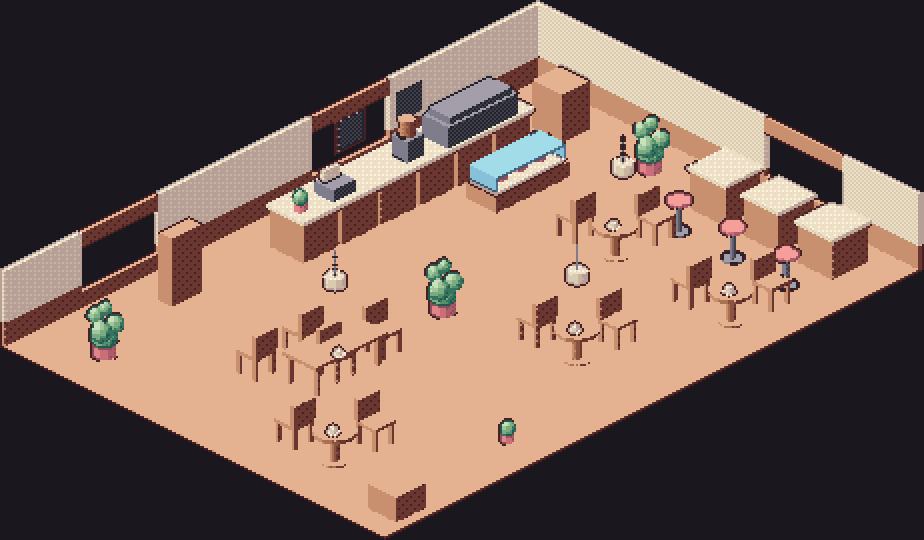
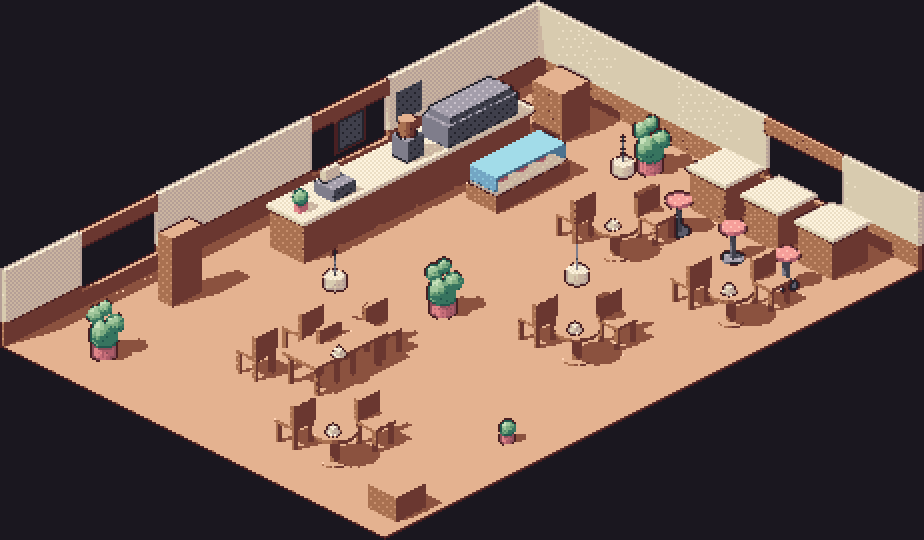
Add cast shadows and a measured art critique against genre convention
Researched the established craft rules for isometric pixel art and measured
the render against them rather than against taste.

What passes. Projection is exactly 2:1 (0.500000000000), which every source
names as the foundation -- 26.57 degree 2-step lines, not true 30 degree
isometry which produces jaggy pixel rhythm. Three-face value separation also
passes: top face lands on ramp step 5.08, left 3.74, right 0.60, so adjacent
faces sit 1.33 and 3.14 steps apart and box forms read as solid volumes. Both
hold structurally rather than by an artist remembering them per asset.

What failed, and the largest fix in this commit. There were no cast shadows at
all, and every reference names grid-aligned cast shadows as the primary device
grounding an object to its floor. Adds an orthographic shadow map rendered from
the key light, plus a weak opposing fill.

That also repaired a measured defect: with only axis-aligned faces the lambert
term was bimodal, so a 7-step ramp collapsed to about 3 used steps with the
mid-tones holding 0.4% of pixels. After shadows and fill, all 7 steps are in
use, mid-tones hold 15%, and peak step share drops from 72% to 63%.

Still bad, and documented rather than hidden. The brightest ramp step gets
0.0% because nothing in the scene is brighter than a flat top face under a
single key, and lamp_glow is never used because no material maps to it. The
genre comparables all solve this with staged light pools -- window shafts,
[…]

diff --git a/tools/mesh.py b/tools/mesh.py
@@ -134,10 +134,74 @@ def save_obj(mesh: Mesh, path: Path | str) -> None:
 
 # --- rasterizer --------------------------------------------------------------
 
+class ShadowMap:
+    """Orthographic depth buffer rendered from the key light.
+
+    Cast shadows are not decoration here. Every isometric reference names them as
+    the primary device that grounds an object to the floor, and without them
+    props read as floating. They also fix a measured defect: with only
+    axis-aligned faces the lambert term is bimodal, so a 7-step ramp collapses to
+    about 3 used steps. Shadow gives the mid and dark steps something to describe.
+    """
+
+    def __init__(self, mesh: Mesh, light: Vec, res: int = 512):
+        self.dir = light
+        up = (0.0, 0.0, 1.0) if abs(light[2]) < 0.99 else (0.0, 1.0, 0.0)
+        self.right = norm(cross(up, light))
+        self.up = norm(cross(light, self.right))
+        us = [dot(v, self.right) for v in mesh.verts]
+        vs = [dot(v, self.up) for v in mesh.verts]
+        self.u0, self.v0 = min(us), min(vs)
+        pad = 1e-3
+        self.su = (max(us) - self.u0) + pad
+        self.sv = (max(vs) - self.v0) + pad
+        self.res = res
+        self.depth = [-1e30] * (res * res)
+
+        for tri, _, _ in mesh.faces:
+            a, b, c = (mesh.verts[i] for i in tri)
+            pa, pb, pc = (self._project(p) for p in (a, b, c))
+            area = ((pb[0] - pa[0]) * (pc[1] - pa[1]) -
+                    (pb[1] - pa[1]) * (pc[0] - pa[0]))
+            if abs(area) < 1e-12:
+                continue
+            x0 = max(0, int(min(pa[0], pb[0], pc[0])))
+            x1 = min(res - 1, int(max(pa[0], pb[0], pc[0])) + 1)
+            y0 = max(0, int(min(pa[1], pb[1], pc[1])))
+            y1 = min(res - 1, int(max(pa[1], pb[1], pc[1])) + 1)
+            for py in range(y0, y1 + 1):
+                fy = py + 0.5
+                for px in range(x0, x1 + 1):
+                    fx = px + 0.5
+                    w0 = ((pb[0]-pa[0])*(fy-pa[1]) - (pb[1]-pa[1])*(fx-pa[0])) / area
+                    w1 = ((pc[0]-pb[0])*(fy-pb[1]) - (pc[1]-pb[1])*(fx-pb[0])) / area
+                    w2 = 1.0 - w0 - w1
+                    if w0 < -1e-9 or w1 < -1e-9 or w2 < -1e-9:
+                        continue
+                    z = pa[2] * w1 + pb[2] * w2 + pc[2] * w0
+                    i = py * res + px
+                    if z > self.depth[i]:
+                        self.depth[i] = z
+
+    def _project(self, p: Vec):
+        return ((dot(p, self.right) - self.u0) / self.su * self.res,
+                (dot(p, self.up) - self.v0) / self.sv * self.res,
+                dot(p, self.dir))
+
+    def lit(self, p: Vec, bias: float = 0.012) -> bool:
+        x, y, z = self._project(p)
+        ix, iy = int(x), int(y)
+        if not (0 <= ix < self.res and 0 <= iy < self.res):
+            return True
+        return z + bias >= self.depth[iy * self.res + ix]
+
+
 def rasterize(mesh: Mesh, cam: DimetricCamera, size: int,
-              target: Vec = (0.0, 0.0, 0.62), smooth: bool = False):
+              target: Vec = (0.0, 0.0, 0.62), smooth: bool = False,
+              shadows: "ShadowMap | None" = None, fill: float = 0.0):
     """Orthographic scanline z-buffer. Returns (material, lambert, normal)."""
     light = camera_light(cam)
+    fill_dir = norm((-light[0], -light[1], abs(light[2]) * 0.5 + 0.3))
     inv = size / (2.0 * cam.span)
 
     mat: list[str | None] = [None] * (size * size)
@@ -199,7 +263,16 @@ def rasterize(mesh: Mesh, cam: DimetricCamera, size: int,
                     n = mul(n, -1.0)
                 mat[i] = material
                 nrm[i] = n
-                lam[i] = min(1.0, 0.10 + 0.92 * max(0.0, dot(n, light)))
+
+                key = max(0.0, dot(n, light))
+                if shadows is not None and key > 0.0:
+                    world = add(add(mul(a, w1), mul(b, w2)), mul(c, w0))
+                    if not shadows.lit(world):
+                        key *= 0.18          # in shadow: keep a little bounce
+                # A weak opposing fill lifts the fully-turned-away face off the
+                # bottom of the ramp, so mid steps get used instead of clamping.
+                amb = fill * max(0.0, dot(n, fill_dir))
+                lam[i] = min(1.0, 0.10 + 0.80 * key + amb)
     return mat, lam, nrm
 
 

diff --git a/tools/render_room.py b/tools/render_room.py
@@ -18,8 +18,8 @@ from PIL import Image
 
 sys.path.insert(0, str(Path(__file__).parent))
 import assetlib as A  # noqa: E402
-from isorender import DimetricCamera, dot  # noqa: E402
-from mesh import rasterize  # noqa: E402
+from isorender import DimetricCamera, camera_light, dot  # noqa: E402
+from mesh import ShadowMap, rasterize  # noqa: E402
 from pixelize import (  # noqa: E402
     apply_outline, downsample_modal, load_palette, shade_toon,
 )
@@ -102,6 +102,7 @@ def main() -> int:
     ap.add_argument("--factor", type=int, default=3)
     ap.add_argument("--azimuth", type=float, default=45.0)
     ap.add_argument("--out", default=str(ROOT / "proof" / "shop.png"))
+    ap.add_argument("--no-shadows", action="store_true")
     args = ap.parse_args()
 
     mesh = build_room()
@@ -114,7 +115,12 @@ def main() -> int:
     size = args.target * args.factor
     ramps = load_palette()
     print(f"rasterizing {size}x{size} -> {args.target}x{args.target} ...")
-    mat, lam, _ = rasterize(mesh, cam, size, target=centre)
+    sm = None
+    if not args.no_shadows:
+        print("building shadow map ...")
+        sm = ShadowMap(mesh, camera_light(cam), res=768)
+    mat, lam, _ = rasterize(mesh, cam, size, target=centre, shadows=sm,
+                            fill=0.0 if args.no_shadows else 0.16)
 
     px = downsample_modal(shade_toon(mat, lam, size, ramps, dither=True),
                           size, args.factor)

diff --git a/ART_CRITIQUE.md b/ART_CRITIQUE.md
@@ -1,0 +1,171 @@
+# Art Critique — measured against isometric pixel art convention
+
+Reviewing `proof/shop.png` against the established craft rules for isometric
+pixel art, rather than against taste. Every claim below is measured.
+
+**References used:**
+[Pixel Parmesan, *Fundamentals of Isometric Pixel Art*](https://pixelparmesan.com/blog/fundamentals-of-isometric-pixel-art) ·
+[SLYNYRD, *Pixelblog 41 — Isometric Pixel Art*](https://www.slynyrd.com/blog/2022/11/28/pixelblog-41-isometric-pixel-art) ·
+[Pixune, *The Artistry of Isometric Games*](https://pixune.com/blog/defining-isometric-games-art/)
+
+Genre comparables: Songs of Conquest, RollerCoaster Tycoon, Travellers Rest,
+Bear and Breakfast, Coffee Talk, Stardew Valley.
+
+---
+
+## What is good
+
+### 1. Projection is exactly right — and this is the rule everything else rests on
+
+Every source names the same foundation: **2:1 line slopes (26.57 degrees), not
+true 30-degree isometry**, because 2-step lines produce clean pixel stairs and
+30 degrees produces what SLYNYRD calls "jaggy rhythm".
+
+We measure `0.500000000000`. Not approximately — exactly, because it is a camera
+matrix rather than a hand-drawn angle. This is the strongest structural advantage
+the 3D-intermediate approach buys, and it is the one thing hand-pixelled art most
+often gets subtly wrong across a large asset set.
+
+### 2. Three-face value separation passes
+
+Pixel Parmesan states the readability rule directly: a light source should hit
+the top face fully and one side partially, "as each face will have a different
+value, making it easier to read visually."
+
+Measured, on the wood ramp (7 steps):
+
+| face | N·L | lambert | ramp step |
+|---|---|---|---|
+| top | 0.811 | 0.846 | **5.08** |
+| left (+x) | 0.569 | 0.623 | **3.74** |
+| right (+y) | 0.000 | 0.100 | **0.60** |
+
+Separation of 1.33 and 3.14 steps between adjacent faces. Comfortably distinct,
+so box forms read as solid volumes. This is satisfied by the light rig rather
+than by an artist remembering it per asset.
+
+### 3. Cast shadows now ground the objects
+
+Added this pass, and it was the largest single visual improvement. Pixel Parmesan
+is explicit that cast shadows are the primary grounding device and should align
+to the isometric grid. Before: props floated. After: they sit.
+
+See `proof/shadow_comparison.png`.
+
+### 4. Palette discipline holds at scale
+
+35 distinct colours in a 272k-pixel frame, **zero off-palette**, no pure black,
+no pure white. Consistent key light across all 8 directions (measured highlight
+centroid spread 2.2 x 1.0 px).
+
+---
+
+## What is bad
+
+### 1. The top of every ramp is dead — worst single finding
+
+Wood ramp histogram across the frame:
+
+```
+step 0:    6188   3.0%  ##
+step 1:   35964  17.6%  ################
+step 2:   17256   8.4%  ########
+step 3:   13384   6.6%  ######
+step 4:    2012   1.0%
+step 5:  129416  63.3%  ############################################################
+step 6:      68   0.0%
+```
+
+**Step 6 gets 0.0%.** The brightest wood never appears anywhere in the scene,
+because nothing is brighter than a flat top face under a single key light. Step 4
+is nearly as dead at 1.0%.
+
+We spent real effort building perceptually-spaced 7-step ramps and are using
+about four of them. Worse, `lamp_glow` — a spot colour that exists precisely to
+be a light source — is **never used at all**, because no material maps to it.
+
+The genre comparables all solve this the same way: they stage **light pools**.
+Window shafts across the floor, warm circles under pendant lamps, a bright rim
+where daylight hits the counter. Those are what justify the top of a ramp. We
+have pendant lamps and windows modelled, and neither emits light.
+
+### 2. 63% of the frame is a single ramp step
+
+The floor is one unbroken plane of `wood_5`. Every comparable breaks the floor:
+RollerCoaster Tycoon with pathway tiling, Stardew with plank seams and rugs,
+Travellers Rest with worn boards. Flat floor is the clearest tell of a blockout.
+
+The manifest already lists `floor_tile_check`, `floor_wood_worn` and
+`floor_rug_round` — they are simply not placed. Cheap fix, large payoff.
+
+### 3. Chromatic monotony — 75% of the frame is one material
+
+| ramp | share |
+|---|---|
+| wood | 75.0% |
+| cream | 18.6% |
+| neutral | 3.0% |
+| foliage | 1.5% |
+| sky | 1.0% |
+| rose | 0.8% |
+
+Cozy interiors in the comparables are chromatically *busy* — that is much of what
+makes them read as lived-in. `foliage`, `sky` and `rose` together hold 3.3% of
+the frame. The palette is far richer than the scene uses.
+
+### 4. No focal hierarchy
+
+The service counter — the thing the player actually interacts with — carries the
+same detail density and contrast as empty floor. The comparables consistently
+give the interaction zone the strongest local contrast and the densest detail,
+which is how the eye knows where to go. Ours is uniform, so the composition has
+no centre.
+
+### 5. The Ghibli premise is in the palette but not on screen
+
+The entire palette was built around warm-light / cool-shadow hue shifting, which
+is the defining Ghibli move. The scene never stages it: there is no cool daylight
+falling through the windows against warm interior lamplight. One directional key
+plus flat fill cannot express the idea the palette was designed for.
+
+This is the gap between having the right colours and using them.
+
+### 6. Silhouettes are below the readable threshold in places
+
+At the room framing, scale is 27.2 px per world unit. Chair legs are 0.08 units
+= **2.2 px**. Table pedestals ~4.9 px. Pixel art convention is to exaggerate and
+chunk up these members precisely because realistic proportions disappear at low
+resolution. Ours are modelled at realistic thickness and consequently read as
+wire.
+
+---
+
+## Ranked fixes
+
+| # | Fix | Cost | Payoff |
+|---|---|---|---|
+| 1 | Emissive light pools from lamps and windows | medium | unlocks the top 2 ramp steps; stages the warm/cool premise |
+| 2 | Place floor variation — tiles, rug, worn boards | low | breaks the 63% single-step plane |
+| 3 | Thicken small members (legs, rails, frames) to a 3–4 px floor | low | silhouette readability |
+| 4 | Add small props for chromatic variety at the counter | low | fixes 75% monotony |
+| 5 | Raise local contrast in the service zone | medium | gives the composition a centre |
+
+Items 2, 3 and 4 are hours of work. Item 1 is the real one, and it is also the
+one that turns the palette from a nice document into the thing on screen.
+
+---
+
+## The honest summary
+
+The **structural** layer is genuinely good and would be hard to beat by hand:
+exact projection, provable face separation, consistent lighting across
+directions, zero palette violations, grounded shadows. That is precisely what a
+factory should be good at.
+
+The **staging** layer is weak: flat lighting, unbroken floor, no focal point, no
+warm/cool play. That is precisely what a factory is not good at, and what the
+human critique loop exists to catch.
+
+Which is the expected division. The measurements just make it concrete: we built
+the half that automates well, and the half that needs art direction still needs
+art direction.
